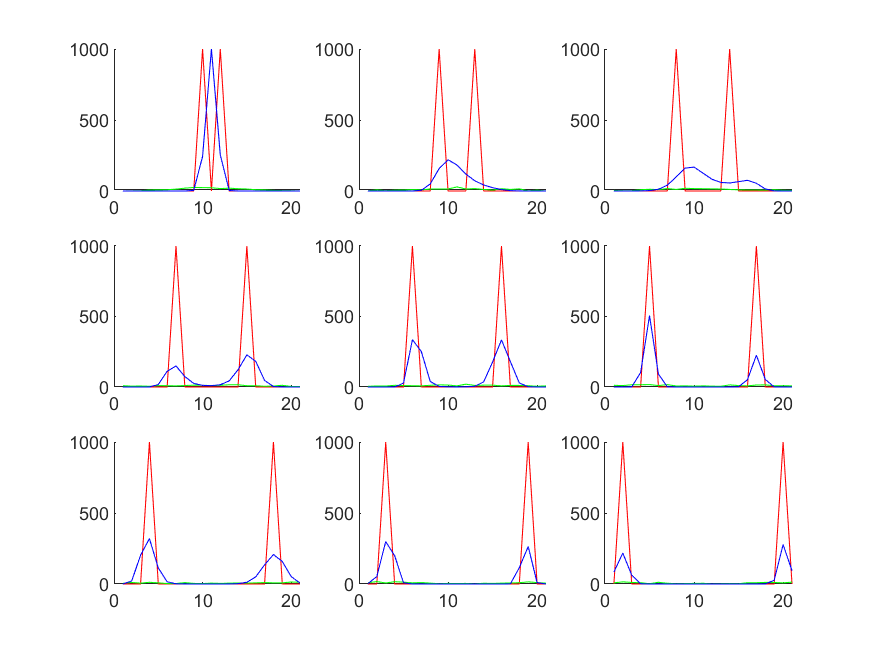
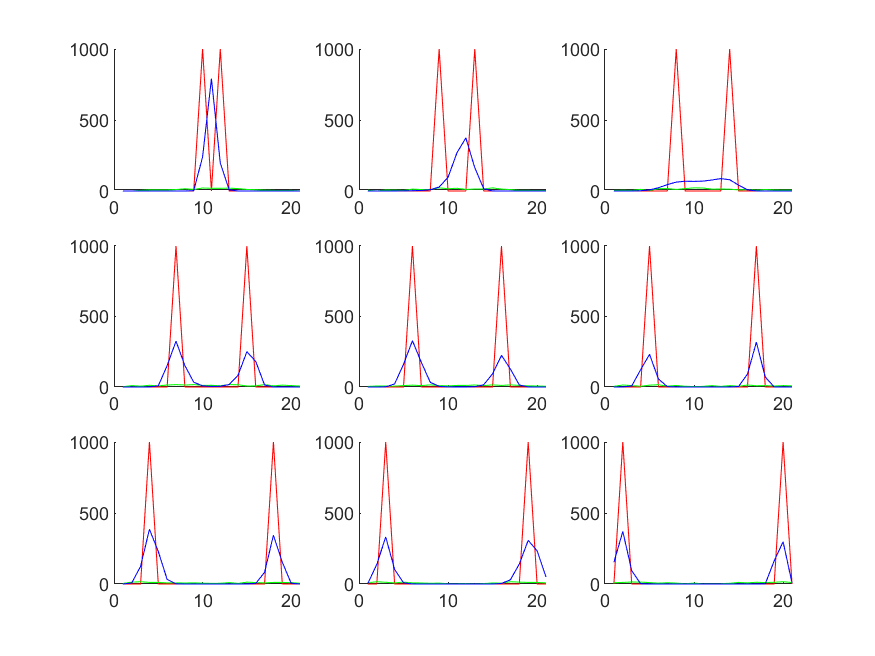
Specify that distance is in nm

diff --git a/rl_positivity_sim.m b/rl_positivity_sim.m
@@ -6,7 +6,7 @@
 
 clear all
 %% Simulation parameters
-max_photons = 1000;
+max_photons = 10000;
 
 % percentage of photons detected 0-1
 photons_detected = 1;
@@ -20,9 +20,9 @@ background_level = 0;
 
 % 0 for lines, 1 for points, 2 for circles of varying size, 3 for circles
 % of varying intensity
-sim_type=2;
-experiment_dir = 'reports/circles/';
-experiment_description = 'Restore circles of varying size, 1000 iterations of RL';
+sim_type=1;
+experiment_dir = 'reports/points10000/';
+experiment_description = 'Restore points using 10000 iterations of RL';
 
 mkdir([experiment_dir]);
 fileID = fopen([experiment_dir 'report.md'],'w');
@@ -31,7 +31,7 @@ fprintf(fileID,'description: %s  \n',experiment_description);
 fprintf(fileID,'max photons %d  \n',max_photons);
 fprintf(fileID,'num iter %d  \n  ',num_iter);
 fprintf(fileID,'pixel size %d  \n  ',pixel_size);
-fprintf(fileID,'spacing px %d  \n  ',spacing_px);
+fprintf(fileID,'spacing px %d nm  \n  ',spacing_px);
 fprintf(fileID,'n %d  \n',n);
 fprintf(fileID,'lambda %d  \n',lambda);
 fprintf(fileID,'numerical aperture %f  \n',numerical_aperture);
@@ -93,7 +93,7 @@ elseif (sim_type==1)
         field((i*floor(n/numPairs))-floor(n/numPairs/2), (n/2) + i) = A;
         distance = (2*i+1)*pixel_size;
         if i==numPairs
-            experiment_info=[experiment_info num2str(distance) ' apart.  \n'];
+            experiment_info=[experiment_info num2str(distance) ' nm apart.  \n'];
         else
             experiment_info=[experiment_info num2str(distance) ', '];
         end

diff --git a/reports/points1000/report.md b/reports/points1000/report.md
@@ -1,9 +1,9 @@
 ## Parameters  
-description: Restore points, 1000 iterations of RL  
+description: Restore points using 1000 iterations of RL  
 max photons 1000  
 num iter 1000  
   pixel size 20  
-  spacing px 4  
+  spacing px 4 nm  
   n 512  
 lambda 510  
 numerical aperture 1.400000  
@@ -12,7 +12,7 @@ left background 0.000000
 mid background 0.050000  
 right background 0.250000  
 ## Line Plots (medium noise)  
-points 60, 100, 140, 180, 220, 260, 300, 340, 380, 420 apart.  
+points 60, 100, 140, 180, 220, 260, 300, 340, 380, 420 nm apart.  
 red: ground truth  
 green: imaged   
 blue: restored   

diff --git a/reports/points10000/report.md b/reports/points10000/report.md
@@ -1,9 +1,9 @@
 ## Parameters  
-description: Restore points, 10000 iterations of RL  
-max photons 1000  
-num iter 10000  
+description: Restore points using 10000 iterations of RL  
+max photons 10000  
+num iter 1000  
   pixel size 20  
-  spacing px 4  
+  spacing px 4 nm  
   n 512  
 lambda 510  
 numerical aperture 1.400000  
@@ -12,6 +12,7 @@ left background 0.000000
 mid background 0.050000  
 right background 0.250000  
 ## Line Plots (medium noise)  
+points 60, 100, 140, 180, 220, 260, 300, 340, 380, 420 nm apart.  
 red: ground truth  
 green: imaged   
 blue: restored   
